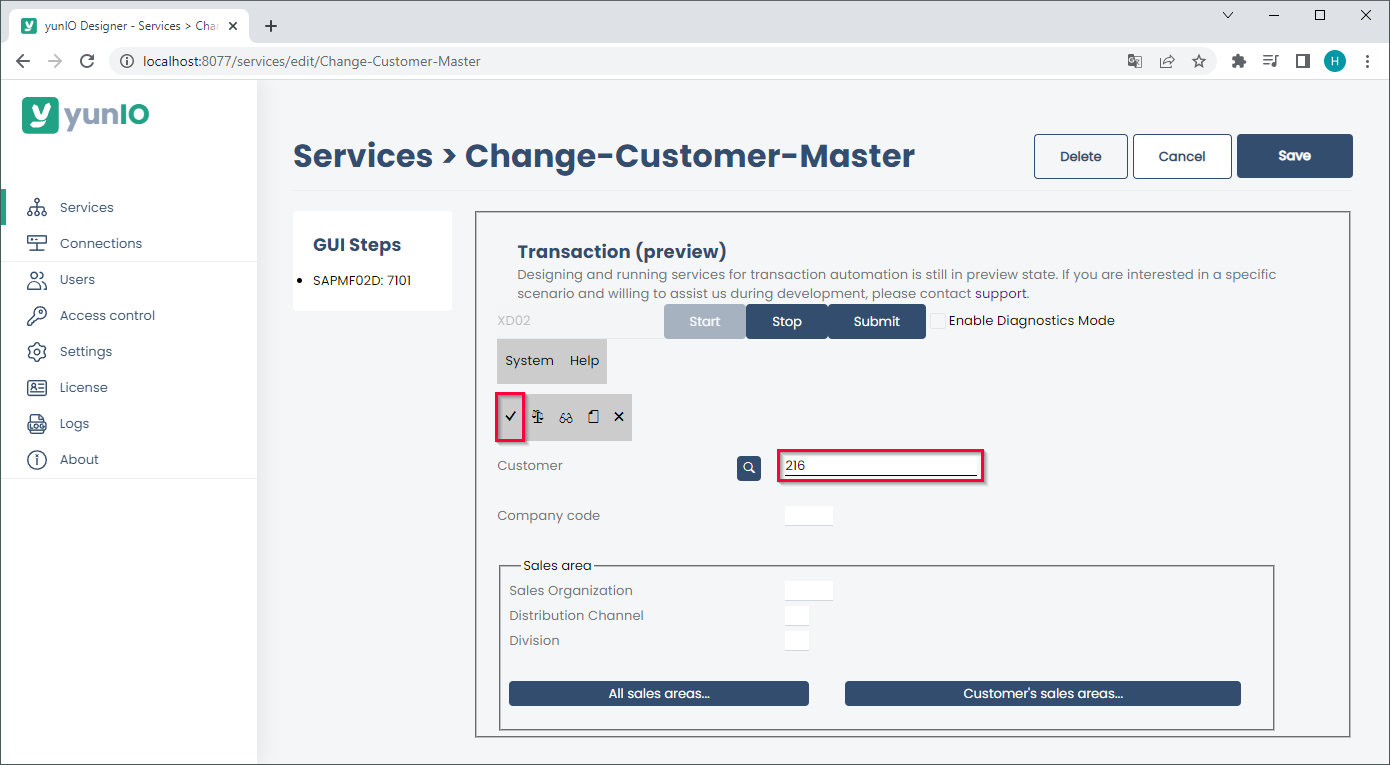
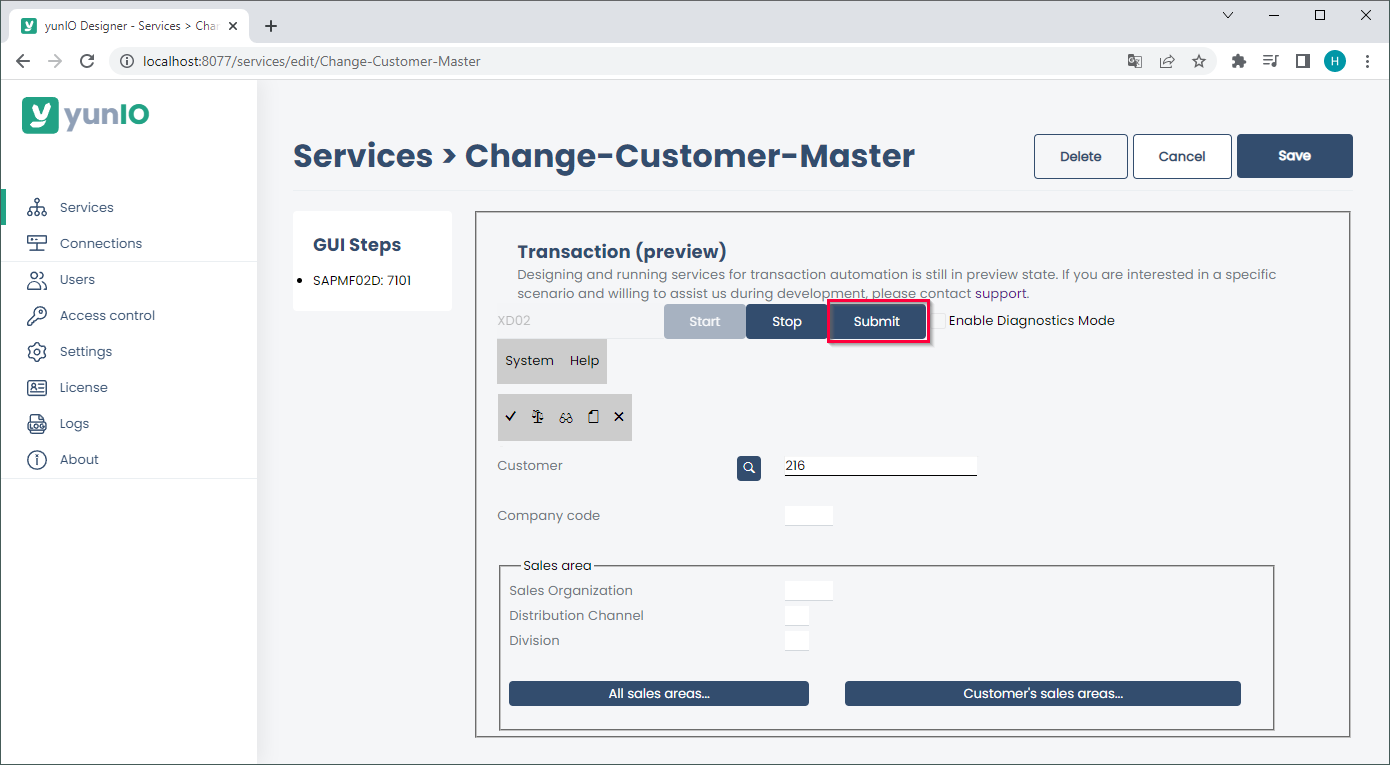
yunIO Transactions XD02, VA02

Changed region(s): [[0.5568, 0.5712, 0.7115, 0.6314], [0.5878, 0.3908, 0.6806, 0.451], [0.3403, 0.5111, 0.4022, 0.6013]]

diff --git a/content/_yunio/transaction-xd02.md b/content/_yunio/transaction-xd02.md
@@ -2,7 +2,6 @@
 layout: page
 title: Working with Transaction XD02
 description: Working with Transaction XD02
-published: false
 permalink: /:collection/:path
 weight: 55
 ---
@@ -29,16 +28,13 @@ The following example application uses a yunIO service to change customer master
 1. Create a new Service with the integration type *Transaction*. For more information on creating a service, see [Creating a Service](https://help.theobald-software.com/en/yunio/getting-started#creating-a-service).
 2. In the transaction service enter the transaction XD02 and press **[Start]**. A replicated SAP GUI of the transaction XD02 is displayed.
 ![change-customer-master](/img/contents/yunio/change-customer-master.png){:class="img-responsive"}
-3. Enter a customer number.<br>
-If you do not know the customer number, use the search button to find the customer you want to edit.
-4. Click **[Continue]** to execute the action and to continue to the next screen. All actions are logged in the *GUI Steps* section of the UI.<br>
+3. Enter a customer number. This input can be replaced with a runtime parameter after the transaction is recorded.
+4. Click **[Submit]** to execute the action and continue to the next screen. All actions are logged in the *GUI Steps* section of the UI. <br>
 ![change-customer-master2](/img/contents/yunio/change-customer-master2.png){:class="img-responsive" }
-6. Edit the customer data, e.g., change the address, payment method, etc.
-7. Click **[Submit]** to submit the changes to SAP.<br>
-![change-customer-master3](/img/contents/yunio/change-customer-master3.png){:class="img-responsive"}
-8. Click **[Save]** to save your actions.
-
-The changes are now available in SAP.
+5. Edit the customer data or record screens for parameterization.<br>
+All fields that need to be parameterized must be available in the section *GUI Steps*. Example: to parameterize a field in a specific tap or menu, the tab or menu must be accessed when recording the transaction.
+6. Click **[Save]** to save your actions. <br>
+Alternatively, click **[Stop]** to start parameterizing, see [yunIO Help: Parameterize Transactions](https://help.theobald-software.com/en/yunio/transactions#parameterize-transactions).
 
 {: .box-note }
 **Note:** When using *Transaction*, warnings and error messages from SAP are displayed in yunIO e.g., *"Equipment number... not in external number interval"*.
@@ -49,3 +45,4 @@ These messages are not yunIO specific and should be treated accordingly.
 #### Related Links
 - [yunIO Help: Getting Started](https://help.theobald-software.com/en/yunio/getting-started)
 - [yunIO Help: Transactions](https://help.theobald-software.com/en/yunio/transactions)
+- [yunIO Help: Parameterize Transactions](https://help.theobald-software.com/en/yunio/transactions#parameterize-transactions)

diff --git a/content/_yunio/transaction-va02.md b/content/_yunio/transaction-va02.md
@@ -29,18 +29,19 @@ The following example application uses a yunIO service to change items in a sale
 2. In the transaction service enter the transaction VA02 and press **[Start]**. A replicated SAP GUI of the transaction VA02 is displayed.
 ![change-sales-order](/img/contents/yunio/change-sales-order.png){:class="img-responsive"}
 3. Enter an order number between 1 - 4999999.<br>
-If you do not know the order number, use the search criteria to find the sales order you want to edit.<br>
+This input can be replaced with a runtime parameter after the transaction is recorded.
 ![change-sales-order2](/img/contents/yunio/change-sales-order2.png){:class="img-responsive" width="850px"}
 4. Click **[Submit]** to execute the action and to continue to the next screen. All actions are logged in the *GUI Steps* section of the UI.
 5. If a pop-op window opens in SAP, the message of the pop-up window is displayed in yunIO. In this example, the message "*Consider the subsequent documents*" is displayed.<br>
 Click **[Continue]** to close the pop-up window and continue to the next screen.
 ![change-sales-order3](/img/contents/yunio/change-sales-order3.png){:class="img-responsive" width="850px"}
-6. Edit the sales order, e.g., change the quantity item, pricing coditions, etc.
+6. Edit the sales order or record screens for parameterization.<br>
+All fields that need to be parameterized must be available in the section *GUI Steps*. Example: to parameterize a field in a specific tap or menu, the tab or menu must be accessed when recording the transaction.
 7. Click **[Submit]** to submit the changes to SAP.<br>
 ![change-sales-order4](/img/contents/yunio/change-sales-order4.png){:class="img-responsive"}
-8. Click **[Save]** to save your actions.
+8. Click **[Save]** to save your actions.<br>
+Alternatively, click **[Stop]** to start parameterizing, see [yunIO Help: Parameterize Transactions](https://help.theobald-software.com/en/yunio/transactions#parameterize-transactions).
 
-The changes are now available in SAP.
 
 {: .box-note }
 **Note:** When using *Transaction*, warnings and error messages from SAP are displayed in yunIO e.g., *"Equipment number... not in external number interval"*.
@@ -51,3 +52,4 @@ These messages are not yunIO specific and should be treated accordingly.
 #### Related Links
 - [yunIO Help: Getting Started](https://help.theobald-software.com/en/yunio/getting-started)
 - [yunIO Help: Transactions](https://help.theobald-software.com/en/yunio/transactions)
+- [yunIO Help: Parameterize Transactions](https://help.theobald-software.com/en/yunio/transactions#parameterize-transactions)
